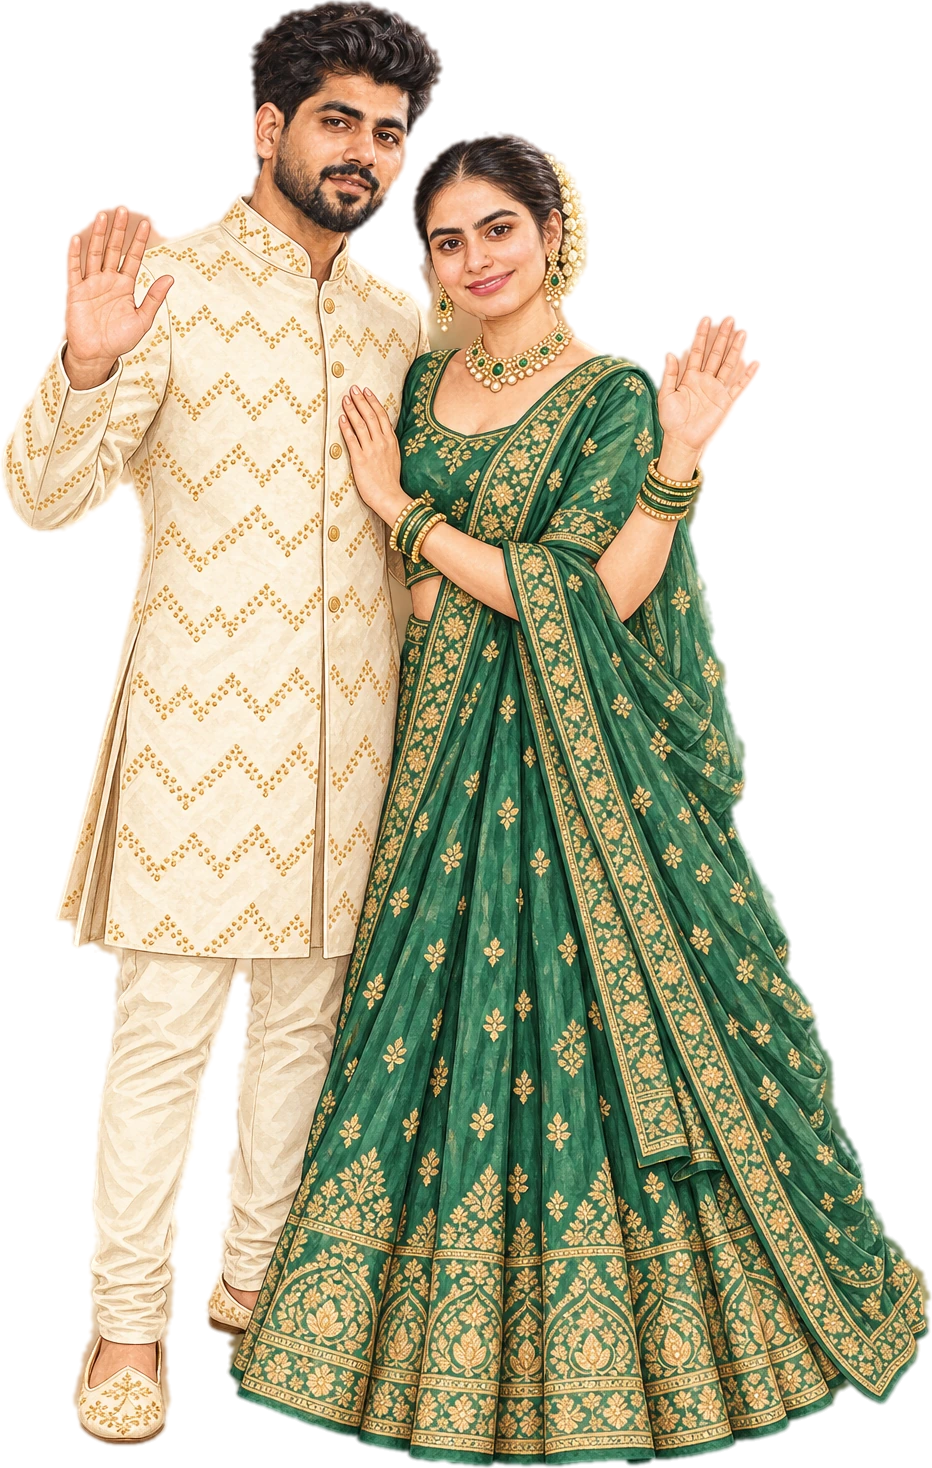
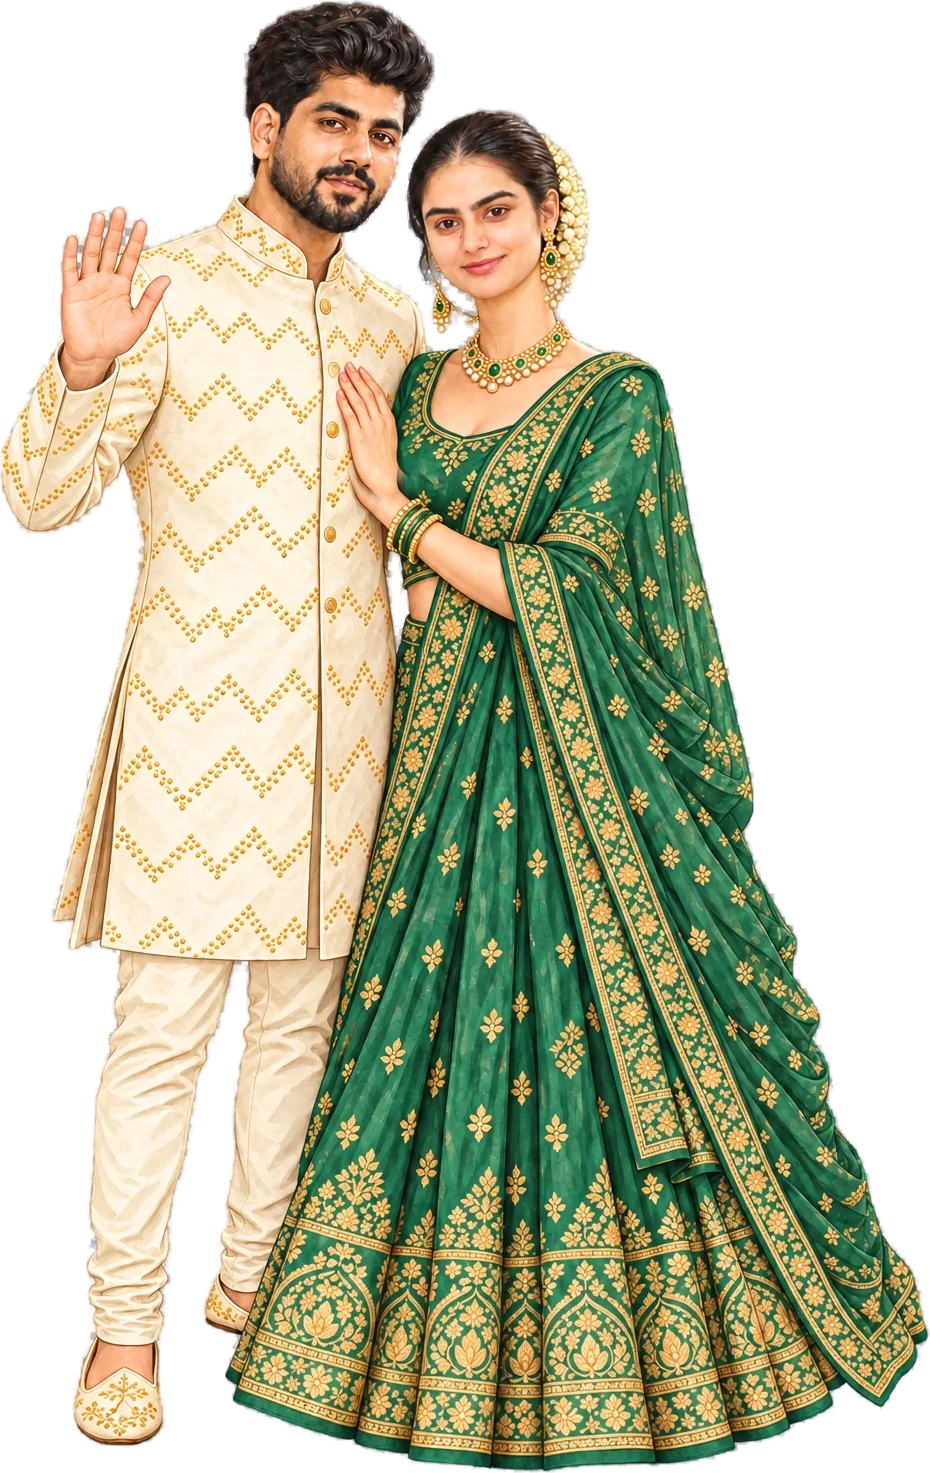
Anchor couple: client-supplied image (correct hands), checkerboard keyed to real alpha
The supplied image had its 'transparent' background baked in as a grey
checkerboard; codex/tools/decheck_cutout.py keys out the border-connected
neutral checker (plus enclosed checker gaps), alpha-mats the edge band with
pymatting and decontaminates the fringe.

Claude-Session: https://claude.ai/code/session_017diCb6yNapkEyUc1SCCxQZ

diff --git a/wedding-invite/codex/tools/decheck_cutout.py b/wedding-invite/codex/tools/decheck_cutout.py
@@ -1,0 +1,57 @@
+"""Turn an image whose 'transparent' background is a baked-in grey/white checkerboard into a real RGBA cut-out.
+
+    python3 decheck_cutout.py in.webp out.png
+
+Background = neutral (grey/white) pixels connected to the image border, plus enclosed neutral regions that carry the
+checker texture (gaps between arms and body). The edge band is then alpha-matted (pymatting closed-form) and the
+foreground colours are decontaminated so no grey fringe is left.
+"""
+import sys
+import numpy as np
+from PIL import Image
+from scipy import ndimage as ndi
+from pymatting import estimate_alpha_cf, estimate_foreground_ml
+
+src, dst = sys.argv[1], sys.argv[2]
+rgb = np.asarray(Image.open(src).convert('RGB')).astype(np.float64)
+R, G, B = rgb[..., 0], rgb[..., 1], rgb[..., 2]
+mx, mn = rgb.max(-1), rgb.min(-1)
+lum = rgb.mean(-1)
+
+# the checker is two near-neutral, slightly cool greys (~172 and ~240) with soft transitions between squares
+neutral = (mx - mn <= 16) & (B - R >= -5) & (lum >= 150) & (lum <= 252)
+
+lab, n = ndi.label(neutral)
+border = np.unique(np.concatenate([lab[0], lab[-1], lab[:, 0], lab[:, -1]]))
+bg = np.isin(lab, border[border > 0])
+
+# enclosed checker gaps: neutral components with strong 8 px checker texture
+tex = ndi.uniform_filter(lum, 9)
+loc_sd = np.sqrt(np.maximum(ndi.uniform_filter(lum ** 2, 9) - tex ** 2, 0))
+for k in range(1, n + 1):
+    if k in border:
+        continue
+    m = lab == k
+    if m.sum() > 300 and loc_sd[m].mean() > 18:
+        bg |= m
+
+bg = ndi.binary_opening(bg, iterations=1)
+fg = ndi.binary_fill_holes(~bg)                       # nothing inside the figure is background unless detected above
+fg &= ~bg
+
+# trimap: certain fg / certain bg / a thin unknown band along the silhouette
+sure_fg = ndi.binary_erosion(fg, iterations=3)
+sure_bg = ndi.binary_erosion(~fg, iterations=3)
+trimap = np.full(fg.shape, .5)
+trimap[sure_fg] = 1
+trimap[sure_bg] = 0
+
+img = rgb / 255.0
+alpha = estimate_alpha_cf(img, trimap)
+alpha = np.clip(alpha, 0, 1)
+alpha[sure_bg] = 0
+alpha[sure_fg] = 1
+fgc = estimate_foreground_ml(img, alpha)
+out = np.dstack([np.clip(fgc, 0, 1) * 255, alpha * 255]).round().astype(np.uint8)
+Image.fromarray(out, 'RGBA').save(dst)
+print('saved', dst, 'fg px', int(fg.sum()), 'components', n)
